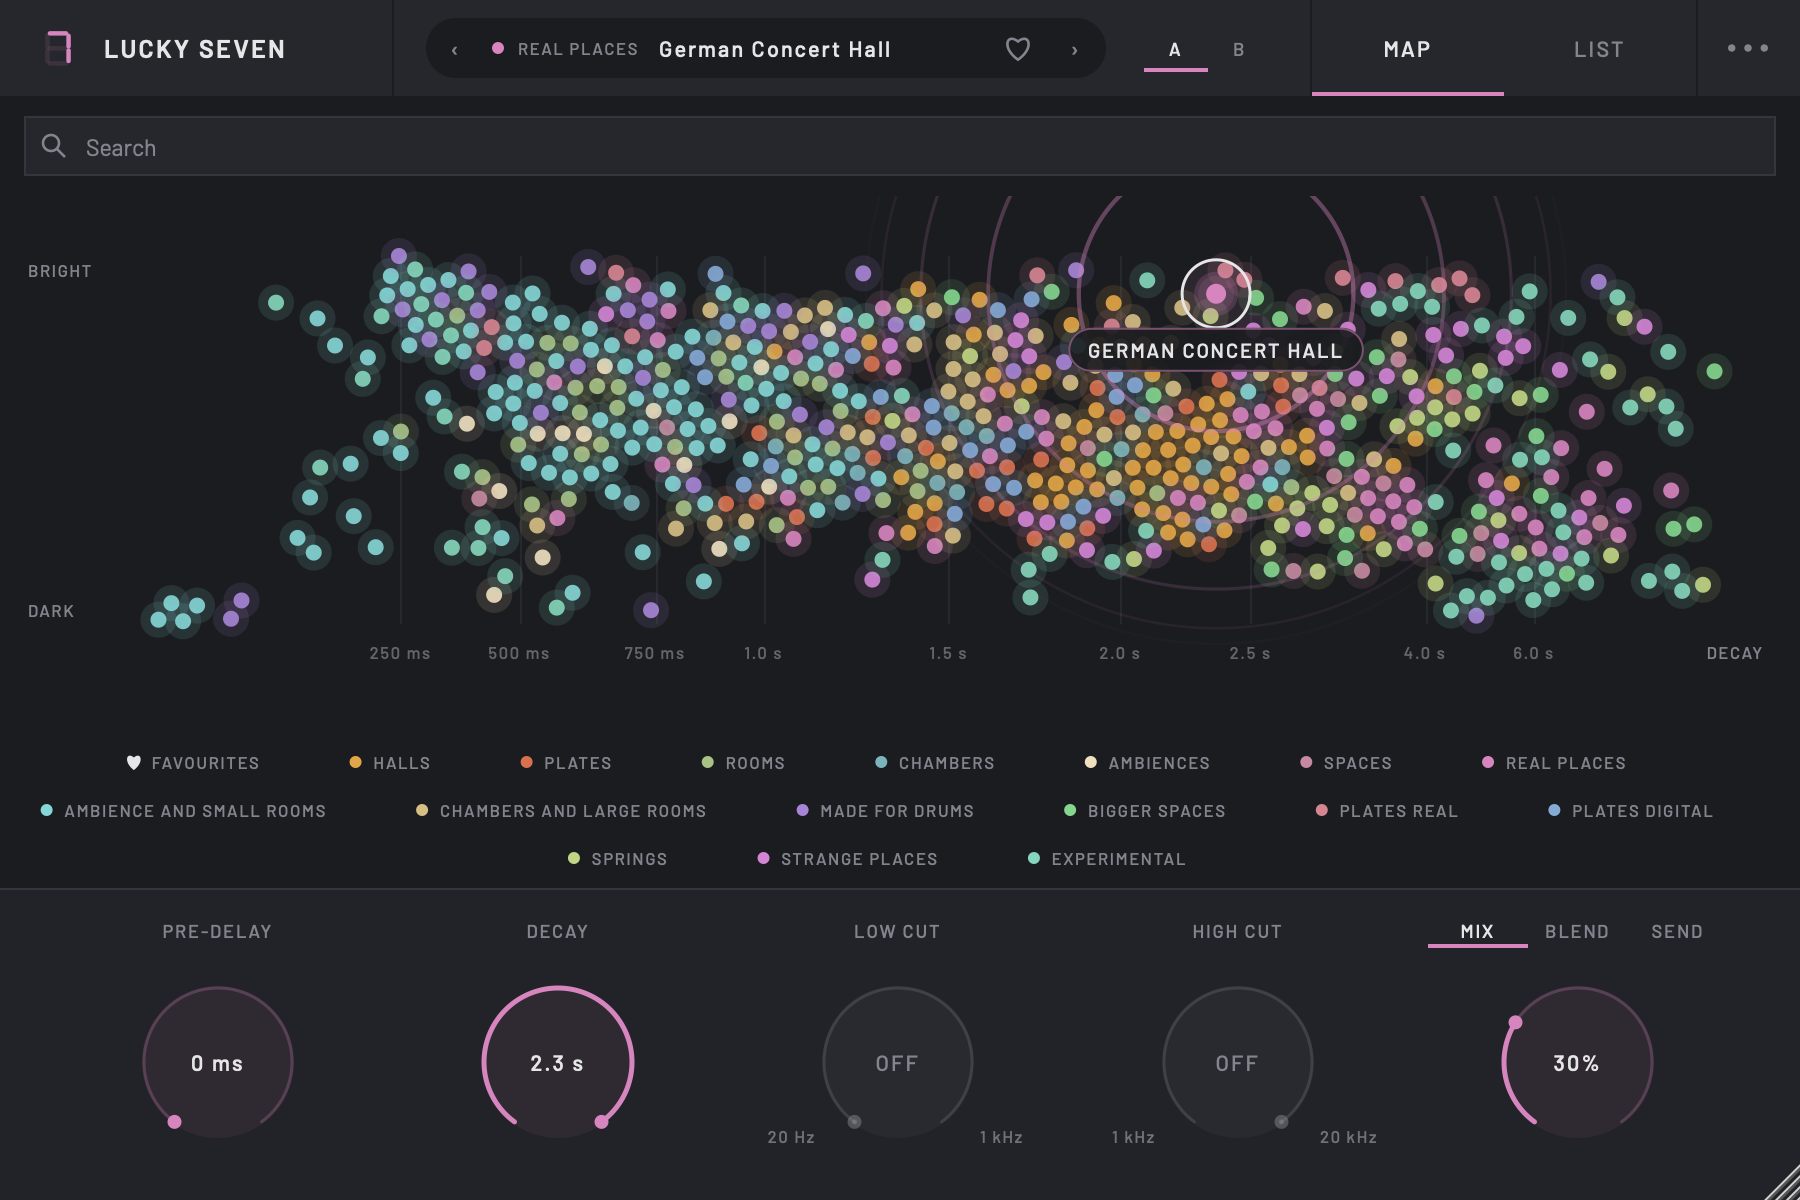
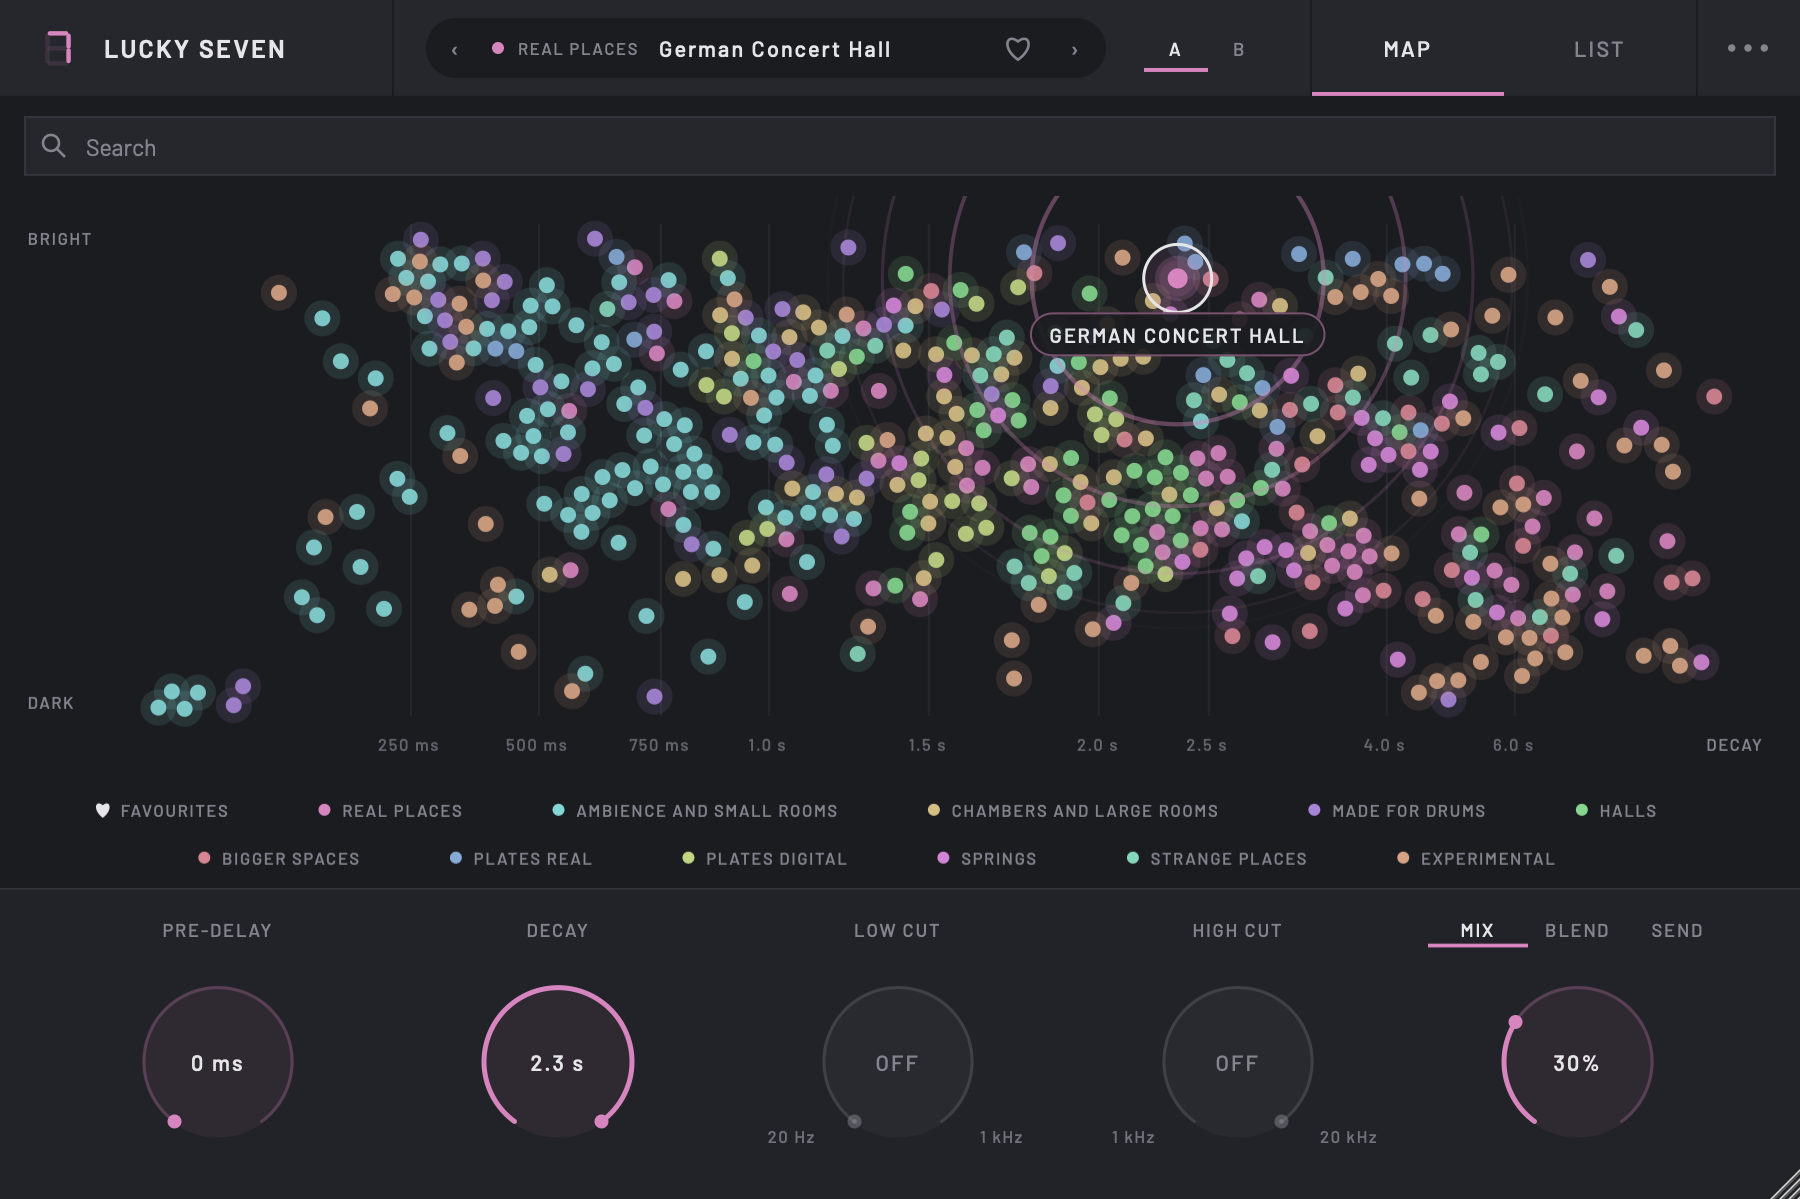
docs: let the Ableton section stand on its own
Drop the comparisons with the Bricasti set from the Ableton section and
its screenshot (now Ableton's pack only), and describe the low/high
cuts by what they do instead of implying other reverbs EQ the source.

diff --git a/docs/index.html b/docs/index.html
@@ -195,8 +195,8 @@
           <p>Mix for a classic wet/dry knob. Blend keeps your dry signal at 0&nbsp;dB and lets you dial reverb in by the decibel. Send goes 100% wet for return tracks.</p>
         </div>
         <div class="feature" style="--dot: var(--cream)">
-          <h3>Tone on the tail only</h3>
-          <p>Low and high cut knobs shape just the reverb, never your source. Pre-delay up to 250&nbsp;ms, true-stereo processing throughout.</p>
+          <h3>Shape the tone</h3>
+          <p>Low and high cut knobs take the mud or the fizz out of the reverb. Pre-delay up to 250&nbsp;ms, true-stereo processing throughout.</p>
         </div>
         <div class="feature" style="--dot: var(--amber)">
           <h3>Ready for the Bricasti M7</h3>
@@ -224,20 +224,20 @@
   <section id="ableton">
     <div class="wrap">
       <span class="label">Using Ableton Live?</span>
-      <h2>Add Ableton's Convolution Reverb IRs too.</h2>
+      <h2>Use Ableton's Convolution Reverb IRs.</h2>
       <div class="split">
         <div class="split-text">
-          <p>If you have Ableton's <strong>Convolution Reverb</strong> pack, its 480-odd impulse responses (real places, halls, plates, springs, drum rooms and some genuinely strange spaces) can sit on the same map as the Bricasti set.</p>
+          <p>If you have Ableton's <strong>Convolution Reverb</strong> pack, its 480-odd impulse responses (real places, halls, plates, springs, drum rooms and some genuinely strange spaces) work in Lucky Seven too.</p>
           <p>In Lucky Seven, open the <strong>&middot;&middot;&middot;</strong> menu, choose <strong>IR folders &rarr; Add a folder&hellip;</strong> and pick:</p>
           <div class="command">
             <pre id="ableton-path">~/Music/Ableton/Factory Packs/Convolution Reverb/IRs</pre>
             <button type="button" data-copy="ableton-path">Copy</button>
           </div>
-          <p>Press <code>Cmd</code> + <code>Shift</code> + <code>G</code> in the folder dialog and paste that path to jump straight there. Lucky Seven tidies the pack's numbered folders into categories, merges its halls with the Bricasti halls, and plays its left/right file pairs in true stereo.</p>
+          <p>Press <code>Cmd</code> + <code>Shift</code> + <code>G</code> in the folder dialog and paste that path to jump straight there. Lucky Seven tidies the pack's numbered folders into categories and plays its left/right file pairs in true stereo.</p>
         </div>
         <figure class="shot">
-          <img src="assets/with-ableton.png" width="1800" height="1200" loading="lazy" alt="The sound map with the Bricasti set and Ableton's Convolution Reverb pack loaded together: over 600 programs in 16 categories, with German Concert Hall selected.">
-          <figcaption>The Bricasti set and Ableton's pack on one map: over 600 reverbs.</figcaption>
+          <img src="assets/with-ableton.png" width="1800" height="1200" loading="lazy" alt="The sound map with Ableton's Convolution Reverb pack loaded: 481 reverbs in 11 categories, with German Concert Hall selected.">
+          <figcaption>Ableton's Convolution Reverb pack on the map: 481 reverbs in 11 categories.</figcaption>
         </figure>
       </div>
     </div>
